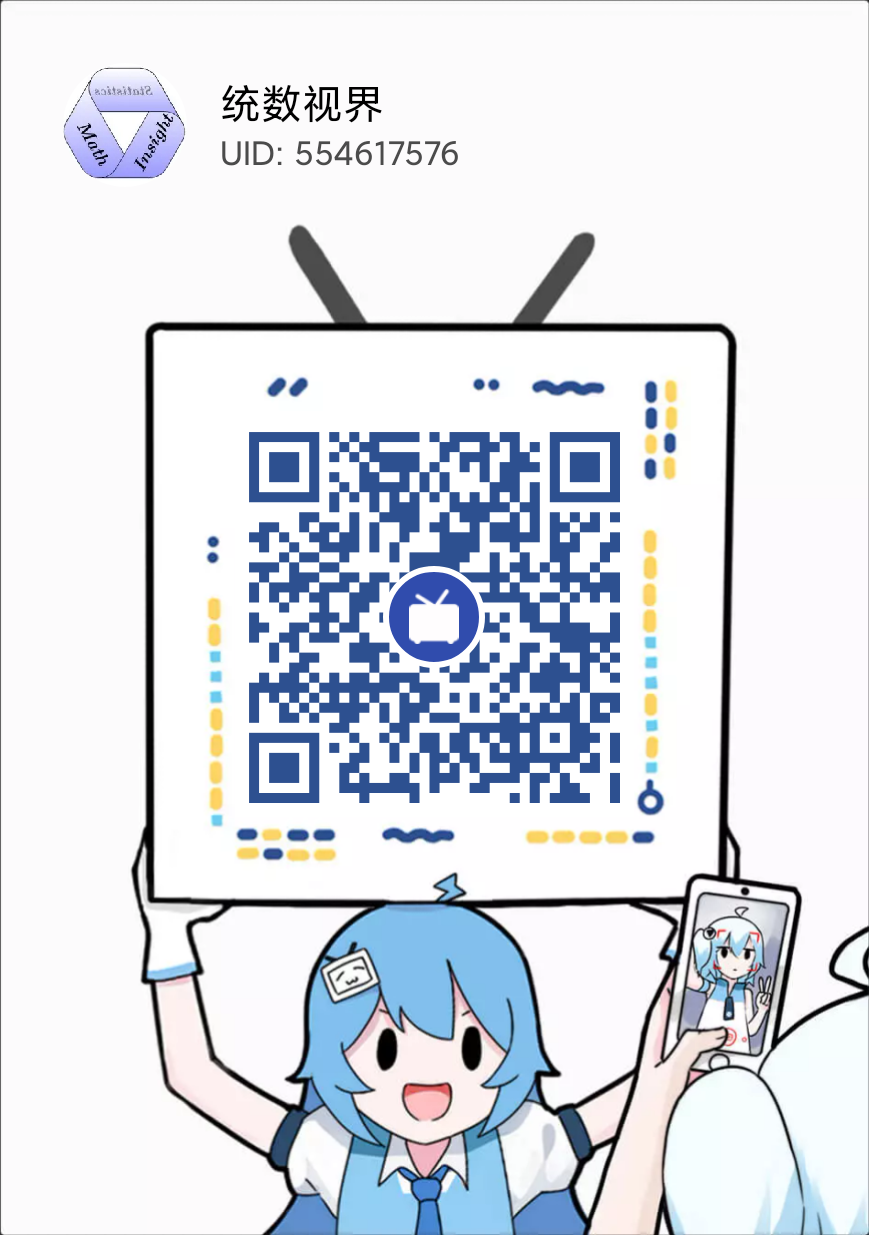
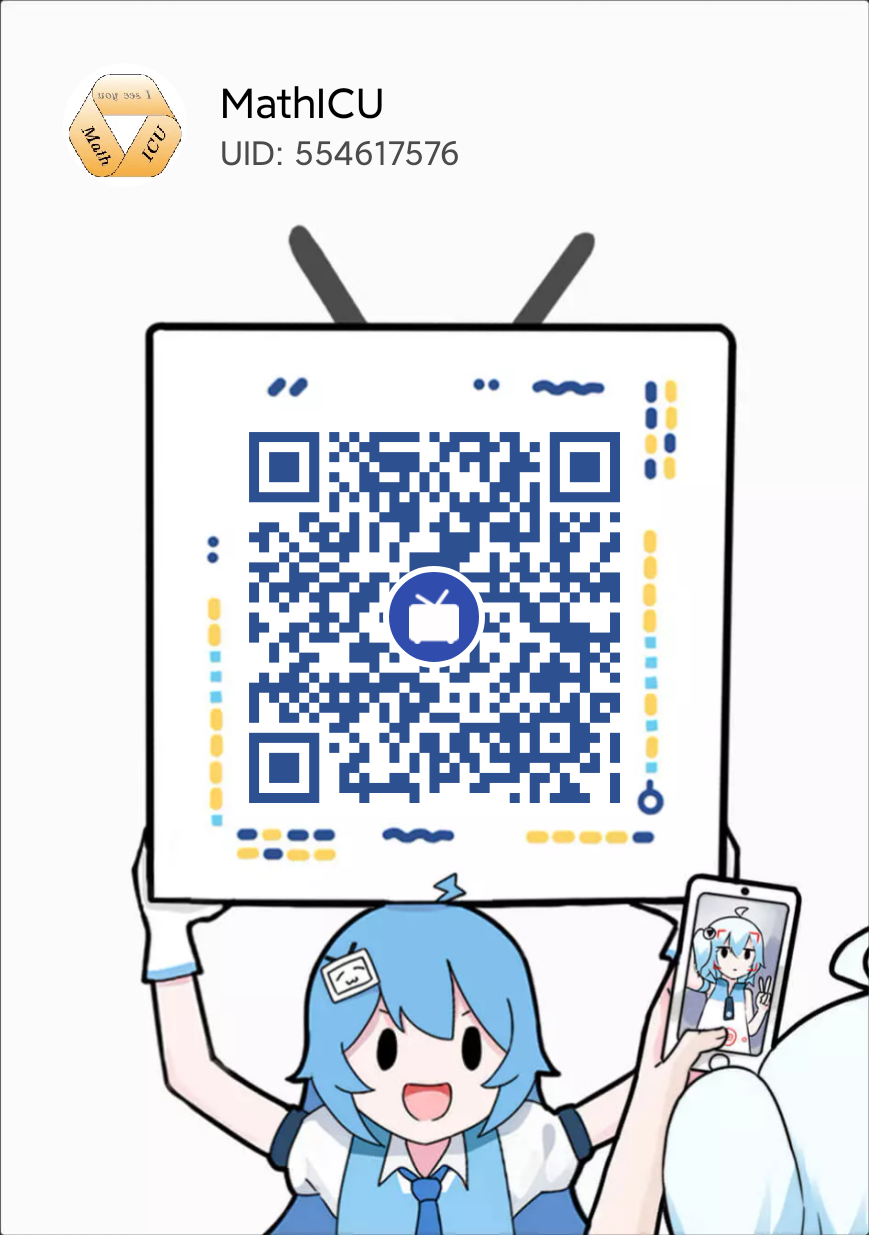
update name

Changed region(s): [[0.0621, 0.0615, 0.2175, 0.1538], [0.2486, 0.0615, 0.435, 0.1231]]

diff --git a/_layouts/default.html b/_layouts/default.html
@@ -54,7 +54,7 @@
     {% if site.github.is_project_page %}
       <p>Project maintained by <a href="{{ site.github.owner_url }}">{{ site.github.owner_name }}</a></p>
     {% endif %}
-      <p>Copyright &copy <a href="https://mathicu.github.io">统数视界</a>,  all rights reserved.</p>
+      <p>Copyright &copy <a href="https://mathicu.github.io">MathICU</a>,  all rights reserved.</p>
     </footer>
     <!--[if !IE]><script>fixScale(document);</script><![endif]-->
   </body>
